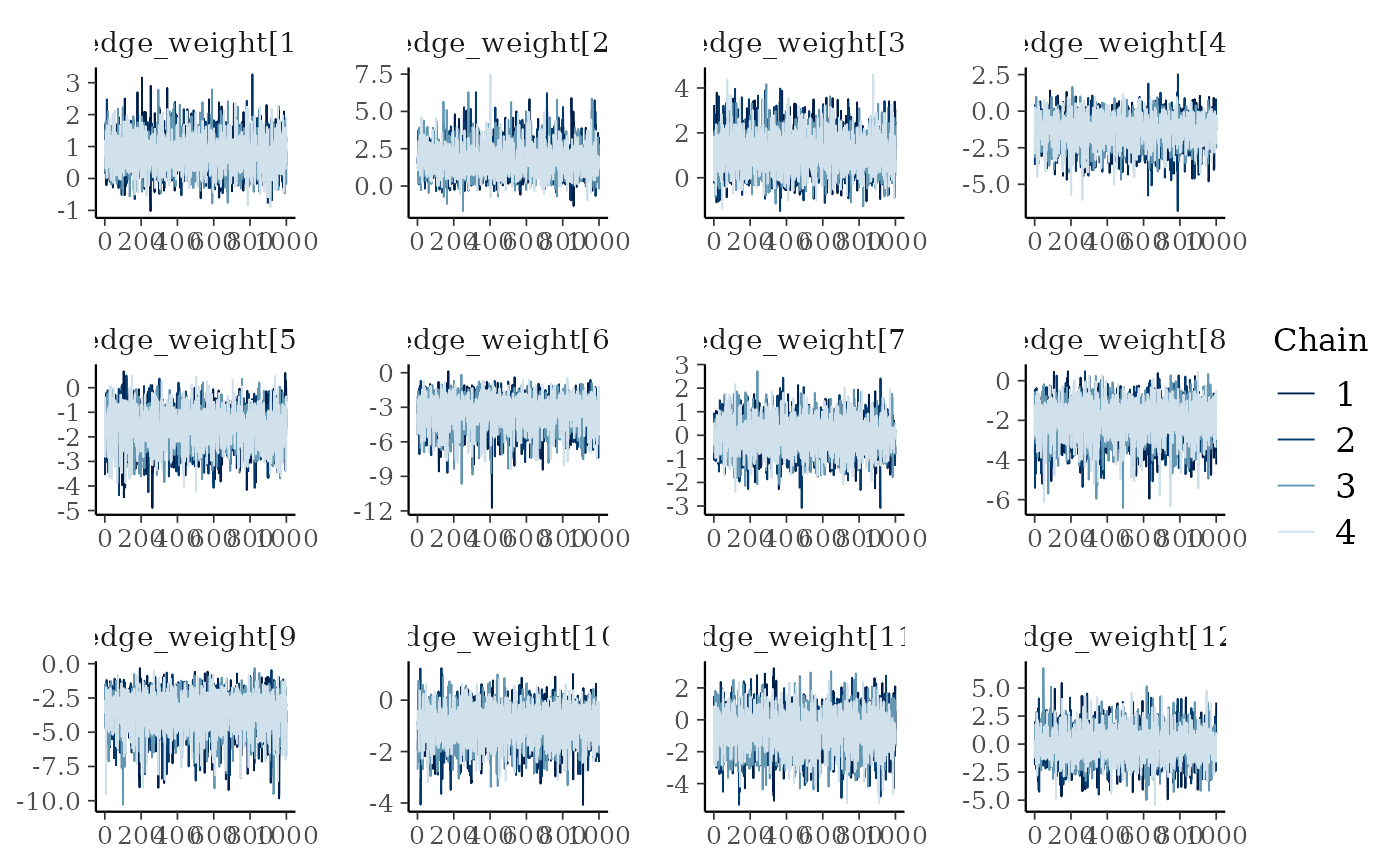
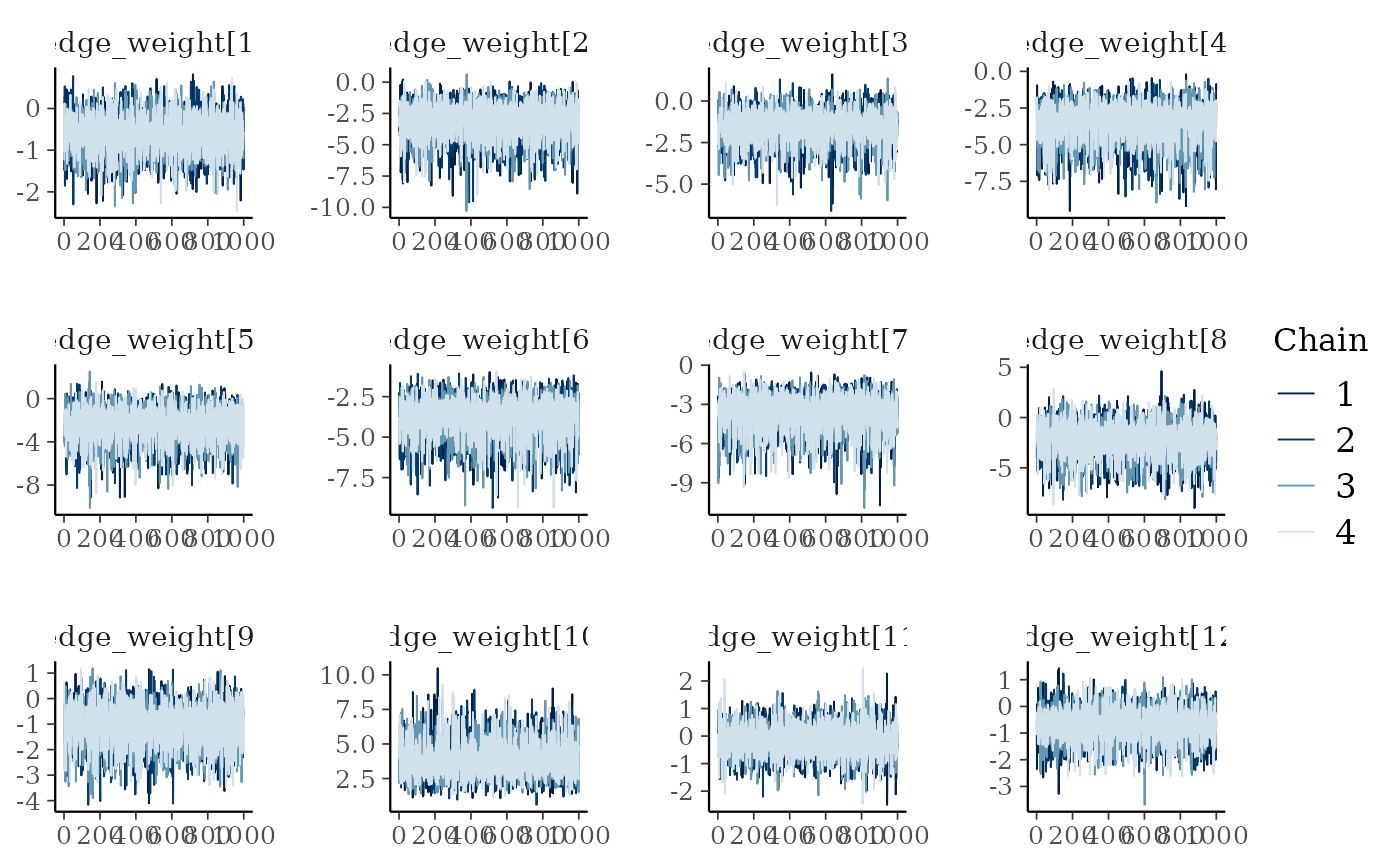
Built site for bisonR: 0.1.0@4b7335e

diff --git a/articles/getting_started.html b/articles/getting_started.html
@@ -113,13 +113,13 @@
 <code class="sourceCode R"><span class="va">sim_data</span> <span class="op">&lt;-</span> <span class="fu"><a href="../reference/simulate_edge_model.html">simulate_edge_model</a></span><span class="op">(</span><span class="st">"binary"</span>, aggregated <span class="op">=</span> <span class="cn">FALSE</span><span class="op">)</span>
 <span class="va">df</span> <span class="op">&lt;-</span> <span class="va">sim_data</span><span class="op">$</span><span class="va">df_sim</span>
 <span class="fu"><a href="https://rdrr.io/r/utils/head.html" class="external-link">head</a></span><span class="op">(</span><span class="va">df</span><span class="op">)</span>
-<span class="co">#&gt;   event node_1_id node_2_id age_diff    age_1    age_2 location duration</span>
-<span class="co">#&gt; 1     0         1         2 1.668992 21.16243 19.49344        2        1</span>
-<span class="co">#&gt; 2     1         1         2 1.668992 21.16243 19.49344        1        1</span>
-<span class="co">#&gt; 3     1         1         2 1.668992 21.16243 19.49344        4        1</span>
-<span class="co">#&gt; 4     0         1         2 1.668992 21.16243 19.49344        1        1</span>
-<span class="co">#&gt; 5     1         1         2 1.668992 21.16243 19.49344        2        1</span>
-<span class="co">#&gt; 6     1         1         2 1.668992 21.16243 19.49344        2        1</span></code></pre></div>
+<span class="co">#&gt;   event node_1_id node_2_id  age_diff    age_1    age_2 location duration</span>
+<span class="co">#&gt; 1     0         1         2 -1.486868 15.53712 17.02398        5        1</span>
+<span class="co">#&gt; 2     0         1         2 -1.486868 15.53712 17.02398        5        1</span>
+<span class="co">#&gt; 3     0         1         2 -1.486868 15.53712 17.02398        2        1</span>
+<span class="co">#&gt; 4     0         1         2 -1.486868 15.53712 17.02398        2        1</span>
+<span class="co">#&gt; 5     1         1         2 -1.486868 15.53712 17.02398        3        1</span>
+<span class="co">#&gt; 6     0         1         2 -1.486868 15.53712 17.02398        1        1</span></code></pre></div>
 </div>
 <div class="section level2">
 <h2 id="edge-models">Edge Models<a class="anchor" aria-label="anchor" href="#edge-models"></a>
@@ -188,14 +188,14 @@
 <span class="co">#&gt; </span>
 <span class="co">#&gt; Running MCMC with 4 parallel chains...</span>
 <span class="co">#&gt; </span>
-<span class="co">#&gt; Chain 3 finished in 1.9 seconds.</span>
-<span class="co">#&gt; Chain 4 finished in 1.8 seconds.</span>
-<span class="co">#&gt; Chain 1 finished in 2.0 seconds.</span>
-<span class="co">#&gt; Chain 2 finished in 1.9 seconds.</span>
+<span class="co">#&gt; Chain 2 finished in 3.1 seconds.</span>
+<span class="co">#&gt; Chain 1 finished in 3.2 seconds.</span>
+<span class="co">#&gt; Chain 3 finished in 3.2 seconds.</span>
+<span class="co">#&gt; Chain 4 finished in 3.2 seconds.</span>
 <span class="co">#&gt; </span>
 <span class="co">#&gt; All 4 chains finished successfully.</span>
-<span class="co">#&gt; Mean chain execution time: 1.9 seconds.</span>
-<span class="co">#&gt; Total execution time: 2.1 seconds.</span></code></pre></div>
+<span class="co">#&gt; Mean chain execution time: 3.2 seconds.</span>
+<span class="co">#&gt; Total execution time: 3.4 seconds.</span></code></pre></div>
 <p>Depending on your dataset this can take anywhere between a few tenths of a second and several hours. In particular if you have a large dataset and no observation-level predictors, it’s probably a good idea to use the aggregated version of the model where all observations per dyad are collapsed to a single row. This will speed up model fitting considerably.</p>
 <p>Once the model has fitted, we need to check that the MCMC algorithm has behaved correctly. Usually if there’s a major problem, the <code><a href="../reference/edge_model.html">edge_model()</a></code> function itself will have triggered warning messages above. But even if everything is silent, it’s still worth checking the traceplots to check the MCMC chains have converged. The chains should be well-mixed and look something like a fuzzy caterpillar. We can check for this using the <code><a href="../reference/plot_trace.html">plot_trace()</a></code> function:</p>
 <div class="sourceCode" id="cb7"><pre class="downlit sourceCode r">
@@ -216,51 +216,51 @@
 <span class="co">#&gt; Directed: FALSE</span>
 <span class="co">#&gt; === Edge list summary ===</span>
 <span class="co">#&gt;          median    5%   95%</span>
-<span class="co">#&gt; 1 &lt;-&gt; 2   0.685 0.485 0.846</span>
-<span class="co">#&gt; 1 &lt;-&gt; 3   0.845 0.573 0.973</span>
-<span class="co">#&gt; 2 &lt;-&gt; 3   0.747 0.457 0.929</span>
-<span class="co">#&gt; 1 &lt;-&gt; 4   0.217 0.040 0.557</span>
-<span class="co">#&gt; 2 &lt;-&gt; 4   0.171 0.049 0.384</span>
-<span class="co">#&gt; 3 &lt;-&gt; 4   0.033 0.002 0.169</span>
-<span class="co">#&gt; 1 &lt;-&gt; 5   0.496 0.235 0.758</span>
-<span class="co">#&gt; 2 &lt;-&gt; 5   0.123 0.023 0.347</span>
-<span class="co">#&gt; 3 &lt;-&gt; 5   0.031 0.002 0.154</span>
-<span class="co">#&gt; 4 &lt;-&gt; 5   0.277 0.101 0.520</span>
-<span class="co">#&gt; 1 &lt;-&gt; 6   0.348 0.060 0.773</span>
-<span class="co">#&gt; 2 &lt;-&gt; 6   0.505 0.095 0.909</span>
-<span class="co">#&gt; 3 &lt;-&gt; 6   0.023 0.002 0.111</span>
-<span class="co">#&gt; 4 &lt;-&gt; 6   0.500 0.201 0.799</span>
-<span class="co">#&gt; 5 &lt;-&gt; 6   0.066 0.012 0.196</span>
-<span class="co">#&gt; 1 &lt;-&gt; 7   0.970 0.839 0.998</span>
-<span class="co">#&gt; 2 &lt;-&gt; 7   0.833 0.672 0.938</span>
-<span class="co">#&gt; 3 &lt;-&gt; 7   0.032 0.002 0.169</span>
-<span class="co">#&gt; 4 &lt;-&gt; 7   0.828 0.226 0.992</span>
-<span class="co">#&gt; 5 &lt;-&gt; 7   0.934 0.637 0.996</span>
-<span class="co">#&gt; 6 &lt;-&gt; 7   0.669 0.352 0.900</span>
-<span class="co">#&gt; 1 &lt;-&gt; 8   0.814 0.510 0.967</span>
-<span class="co">#&gt; 2 &lt;-&gt; 8   0.416 0.206 0.652</span>
-<span class="co">#&gt; 3 &lt;-&gt; 8   0.342 0.060 0.779</span>
-<span class="co">#&gt; 4 &lt;-&gt; 8   0.337 0.146 0.573</span>
-<span class="co">#&gt; 5 &lt;-&gt; 8   0.943 0.687 0.997</span>
-<span class="co">#&gt; 6 &lt;-&gt; 8   0.917 0.544 0.995</span>
-<span class="co">#&gt; 7 &lt;-&gt; 8   0.259 0.075 0.538</span>
-<span class="co">#&gt; 1 &lt;-&gt; 9   0.355 0.178 0.585</span>
-<span class="co">#&gt; 2 &lt;-&gt; 9   0.105 0.005 0.577</span>
-<span class="co">#&gt; 3 &lt;-&gt; 9   0.499 0.257 0.737</span>
-<span class="co">#&gt; 4 &lt;-&gt; 9   0.438 0.251 0.640</span>
-<span class="co">#&gt; 5 &lt;-&gt; 9   0.827 0.233 0.992</span>
-<span class="co">#&gt; 6 &lt;-&gt; 9   0.917 0.756 0.984</span>
-<span class="co">#&gt; 7 &lt;-&gt; 9   0.265 0.127 0.444</span>
-<span class="co">#&gt; 8 &lt;-&gt; 9   0.887 0.396 0.995</span>
-<span class="co">#&gt; 1 &lt;-&gt; 10  0.855 0.665 0.956</span>
-<span class="co">#&gt; 2 &lt;-&gt; 10  0.045 0.003 0.257</span>
-<span class="co">#&gt; 3 &lt;-&gt; 10  0.046 0.003 0.244</span>
-<span class="co">#&gt; 4 &lt;-&gt; 10  0.448 0.284 0.631</span>
-<span class="co">#&gt; 5 &lt;-&gt; 10  0.551 0.299 0.787</span>
-<span class="co">#&gt; 6 &lt;-&gt; 10  0.970 0.858 0.998</span>
-<span class="co">#&gt; 7 &lt;-&gt; 10  0.050 0.003 0.275</span>
-<span class="co">#&gt; 8 &lt;-&gt; 10  0.405 0.121 0.746</span>
-<span class="co">#&gt; 9 &lt;-&gt; 10  0.307 0.133 0.538</span></code></pre></div>
+<span class="co">#&gt; 1 &lt;-&gt; 2   0.348 0.195 0.528</span>
+<span class="co">#&gt; 1 &lt;-&gt; 3   0.044 0.003 0.253</span>
+<span class="co">#&gt; 2 &lt;-&gt; 3   0.180 0.031 0.481</span>
+<span class="co">#&gt; 1 &lt;-&gt; 4   0.031 0.002 0.159</span>
+<span class="co">#&gt; 2 &lt;-&gt; 4   0.082 0.005 0.469</span>
+<span class="co">#&gt; 3 &lt;-&gt; 4   0.022 0.002 0.107</span>
+<span class="co">#&gt; 1 &lt;-&gt; 5   0.027 0.002 0.138</span>
+<span class="co">#&gt; 2 &lt;-&gt; 5   0.110 0.004 0.596</span>
+<span class="co">#&gt; 3 &lt;-&gt; 5   0.255 0.072 0.548</span>
+<span class="co">#&gt; 4 &lt;-&gt; 5   0.978 0.890 0.998</span>
+<span class="co">#&gt; 1 &lt;-&gt; 6   0.465 0.254 0.683</span>
+<span class="co">#&gt; 2 &lt;-&gt; 6   0.334 0.147 0.568</span>
+<span class="co">#&gt; 3 &lt;-&gt; 6   0.917 0.542 0.996</span>
+<span class="co">#&gt; 4 &lt;-&gt; 6   0.970 0.845 0.998</span>
+<span class="co">#&gt; 5 &lt;-&gt; 6   0.922 0.774 0.986</span>
+<span class="co">#&gt; 1 &lt;-&gt; 7   0.021 0.002 0.105</span>
+<span class="co">#&gt; 2 &lt;-&gt; 7   0.022 0.002 0.108</span>
+<span class="co">#&gt; 3 &lt;-&gt; 7   0.185 0.007 0.778</span>
+<span class="co">#&gt; 4 &lt;-&gt; 7   0.972 0.866 0.998</span>
+<span class="co">#&gt; 5 &lt;-&gt; 7   0.045 0.003 0.243</span>
+<span class="co">#&gt; 6 &lt;-&gt; 7   0.020 0.002 0.100</span>
+<span class="co">#&gt; 1 &lt;-&gt; 8   0.060 0.011 0.183</span>
+<span class="co">#&gt; 2 &lt;-&gt; 8   0.885 0.680 0.979</span>
+<span class="co">#&gt; 3 &lt;-&gt; 8   0.979 0.901 0.998</span>
+<span class="co">#&gt; 4 &lt;-&gt; 8   0.942 0.679 0.997</span>
+<span class="co">#&gt; 5 &lt;-&gt; 8   0.697 0.452 0.884</span>
+<span class="co">#&gt; 6 &lt;-&gt; 8   0.647 0.445 0.817</span>
+<span class="co">#&gt; 7 &lt;-&gt; 8   0.978 0.895 0.998</span>
+<span class="co">#&gt; 1 &lt;-&gt; 9   0.497 0.098 0.909</span>
+<span class="co">#&gt; 2 &lt;-&gt; 9   0.924 0.778 0.985</span>
+<span class="co">#&gt; 3 &lt;-&gt; 9   0.961 0.786 0.997</span>
+<span class="co">#&gt; 4 &lt;-&gt; 9   0.973 0.868 0.998</span>
+<span class="co">#&gt; 5 &lt;-&gt; 9   0.956 0.753 0.997</span>
+<span class="co">#&gt; 6 &lt;-&gt; 9   0.223 0.093 0.410</span>
+<span class="co">#&gt; 7 &lt;-&gt; 9   0.976 0.883 0.998</span>
+<span class="co">#&gt; 8 &lt;-&gt; 9   0.976 0.876 0.998</span>
+<span class="co">#&gt; 1 &lt;-&gt; 10  0.052 0.003 0.279</span>
+<span class="co">#&gt; 2 &lt;-&gt; 10  0.083 0.004 0.438</span>
+<span class="co">#&gt; 3 &lt;-&gt; 10  0.507 0.155 0.844</span>
+<span class="co">#&gt; 4 &lt;-&gt; 10  0.976 0.867 0.998</span>
+<span class="co">#&gt; 5 &lt;-&gt; 10  0.250 0.096 0.475</span>
+<span class="co">#&gt; 6 &lt;-&gt; 10  0.020 0.002 0.106</span>
+<span class="co">#&gt; 7 &lt;-&gt; 10  0.934 0.633 0.996</span>
+<span class="co">#&gt; 8 &lt;-&gt; 10  0.020 0.002 0.102</span>
+<span class="co">#&gt; 9 &lt;-&gt; 10  0.025 0.002 0.137</span></code></pre></div>
 <p>It can be hard to get an intuitive idea for what’s going on looking only at a summary table, so this is where it can be useful to visualise the network too. The <code><a href="../reference/plot_network.html">plot_network()</a></code> function does this for BISoN edge weight models, where uncertainty is shown on edge weights. Uncertainty is visualised by showing the lower and upper bounds as overlapping edges in the network.</p>
 <div class="sourceCode" id="cb10"><pre class="downlit sourceCode r">
 <code class="sourceCode R"><span class="fu"><a href="../reference/plot_network.html">plot_network</a></span><span class="op">(</span><span class="va">fit_edge</span>, lwd<span class="op">=</span><span class="fl">5</span><span class="op">)</span></code></pre></div>
@@ -305,30 +305,30 @@
 <span class="co">#&gt; Chain 2 Iteration:  500 / 2000 [ 25%]  (Warmup) </span>
 <span class="co">#&gt; Chain 3 Iteration:  500 / 2000 [ 25%]  (Warmup) </span>
 <span class="co">#&gt; Chain 4 Iteration:  500 / 2000 [ 25%]  (Warmup) </span>
+<span class="co">#&gt; Chain 4 Iteration: 1000 / 2000 [ 50%]  (Warmup) </span>
 <span class="co">#&gt; Chain 1 Iteration: 1000 / 2000 [ 50%]  (Warmup) </span>
 <span class="co">#&gt; Chain 1 Iteration: 1001 / 2000 [ 50%]  (Sampling) </span>
 <span class="co">#&gt; Chain 2 Iteration: 1000 / 2000 [ 50%]  (Warmup) </span>
 <span class="co">#&gt; Chain 2 Iteration: 1001 / 2000 [ 50%]  (Sampling) </span>
 <span class="co">#&gt; Chain 3 Iteration: 1000 / 2000 [ 50%]  (Warmup) </span>
 <span class="co">#&gt; Chain 3 Iteration: 1001 / 2000 [ 50%]  (Sampling) </span>
-<span class="co">#&gt; Chain 4 Iteration: 1000 / 2000 [ 50%]  (Warmup) </span>
 <span class="co">#&gt; Chain 4 Iteration: 1001 / 2000 [ 50%]  (Sampling) </span>
-<span class="co">#&gt; Chain 1 Iteration: 1500 / 2000 [ 75%]  (Sampling) </span>
 <span class="co">#&gt; Chain 2 Iteration: 1500 / 2000 [ 75%]  (Sampling) </span>
 <span class="co">#&gt; Chain 4 Iteration: 1500 / 2000 [ 75%]  (Sampling) </span>
+<span class="co">#&gt; Chain 1 Iteration: 1500 / 2000 [ 75%]  (Sampling) </span>
 <span class="co">#&gt; Chain 3 Iteration: 1500 / 2000 [ 75%]  (Sampling) </span>
-<span class="co">#&gt; Chain 1 Iteration: 2000 / 2000 [100%]  (Sampling) </span>
 <span class="co">#&gt; Chain 2 Iteration: 2000 / 2000 [100%]  (Sampling) </span>
-<span class="co">#&gt; Chain 1 finished in 2.6 seconds.</span>
-<span class="co">#&gt; Chain 2 finished in 2.7 seconds.</span>
-<span class="co">#&gt; Chain 4 Iteration: 2000 / 2000 [100%]  (Sampling) </span>
-<span class="co">#&gt; Chain 4 finished in 2.8 seconds.</span>
+<span class="co">#&gt; Chain 2 finished in 3.3 seconds.</span>
+<span class="co">#&gt; Chain 1 Iteration: 2000 / 2000 [100%]  (Sampling) </span>
 <span class="co">#&gt; Chain 3 Iteration: 2000 / 2000 [100%]  (Sampling) </span>
-<span class="co">#&gt; Chain 3 finished in 3.0 seconds.</span>
+<span class="co">#&gt; Chain 4 Iteration: 2000 / 2000 [100%]  (Sampling) </span>
+<span class="co">#&gt; Chain 1 finished in 3.5 seconds.</span>
+<span class="co">#&gt; Chain 3 finished in 3.4 seconds.</span>
+<span class="co">#&gt; Chain 4 finished in 3.4 seconds.</span>
 <span class="co">#&gt; </span>
 <span class="co">#&gt; All 4 chains finished successfully.</span>
-<span class="co">#&gt; Mean chain execution time: 2.7 seconds.</span>
-<span class="co">#&gt; Total execution time: 3.0 seconds.</span></code></pre></div>
+<span class="co">#&gt; Mean chain execution time: 3.4 seconds.</span>
+<span class="co">#&gt; Total execution time: 3.5 seconds.</span></code></pre></div>
 <p>Like last time we want to check that our model has fit properly and makes good predictions. This can be done in exactly the same way as last time:</p>
 <div class="sourceCode" id="cb13"><pre class="downlit sourceCode r">
 <code class="sourceCode R"><span class="fu"><a href="../reference/plot_trace.html">plot_trace</a></span><span class="op">(</span><span class="va">fit_dyadic</span><span class="op">)</span></code></pre></div>
@@ -343,9 +343,9 @@
 <span class="co">#&gt; Formula: dyad(node_1_id, node_2_id) ~ age_diff</span>
 <span class="co">#&gt; Number of dyads: 45</span>
 <span class="co">#&gt; === Coefficient summary ===                </span>
-<span class="co">#&gt; variable           50%     5%   95%</span>
-<span class="co">#&gt;   intercept      0.154 -0.188 0.487</span>
-<span class="co">#&gt;   fixed_age_diff 0.697  0.525 0.885</span></code></pre></div>
+<span class="co">#&gt; variable            50%     5%   95%</span>
+<span class="co">#&gt;   intercept      -0.089 -0.488 0.290</span>
+<span class="co">#&gt;   fixed_age_diff  0.309  0.258 0.362</span></code></pre></div>
 <p>Now we’ve seen how to fit a dyadic regression, the next common type of analysis is nodal regression.</p>
 </div>
 <div class="section level2">
@@ -361,16 +361,16 @@
   <span class="fu"><a href="https://dplyr.tidyverse.org/reference/distinct.html" class="external-link">distinct</a></span><span class="op">(</span><span class="va">node_id</span>, <span class="va">age</span><span class="op">)</span>
 <span class="va">df_nodal</span>
 <span class="co">#&gt;    node_id      age</span>
-<span class="co">#&gt; 1        1 21.16243</span>
-<span class="co">#&gt; 2        2 19.49344</span>
-<span class="co">#&gt; 3        3 18.48763</span>
-<span class="co">#&gt; 4        4 21.73218</span>
-<span class="co">#&gt; 5        5 22.42261</span>
-<span class="co">#&gt; 6        6 23.14909</span>
-<span class="co">#&gt; 7        7 19.53366</span>
-<span class="co">#&gt; 8        8 20.78087</span>
-<span class="co">#&gt; 9        9 21.24348</span>
-<span class="co">#&gt; 10      10 22.01434</span></code></pre></div>
+<span class="co">#&gt; 1        1 15.53712</span>
+<span class="co">#&gt; 2        2 17.02398</span>
+<span class="co">#&gt; 3        3 20.38407</span>
+<span class="co">#&gt; 4        4 33.53709</span>
+<span class="co">#&gt; 5        5 20.05762</span>
+<span class="co">#&gt; 6        6 17.23418</span>
+<span class="co">#&gt; 7        7 27.43934</span>
+<span class="co">#&gt; 8        8 18.03375</span>
+<span class="co">#&gt; 9        9 15.12338</span>
+<span class="co">#&gt; 10      10 21.13687</span></code></pre></div>
 <p>Priors can be set in the exact same way as for the <code><a href="../reference/dyadic_regression.html">dyadic_regression()</a></code> function:</p>
 <div class="sourceCode" id="cb17"><pre class="downlit sourceCode r">
 <code class="sourceCode R"><span class="va">priors</span> <span class="op">&lt;-</span> <span class="fu"><a href="../reference/get_default_priors.html">get_default_priors</a></span><span class="op">(</span><span class="st">"nodal_regression"</span><span class="op">)</span>
@@ -395,12 +395,7 @@
 <span class="co">#&gt; Chain 1 Iteration:    1 / 2000 [  0%]  (Warmup) </span>
 <span class="co">#&gt; Chain 2 Iteration:    1 / 2000 [  0%]  (Warmup) </span>
 <span class="co">#&gt; Chain 3 Iteration:    1 / 2000 [  0%]  (Warmup) </span>
-<span class="co">#&gt; Chain 4 Iteration:    1 / 2000 [  0%]  (Warmup)</span>
-<span class="co">#&gt; Chain 4 Informational Message: The current Metropolis proposal is about to be rejected because of the following issue:</span>
-<span class="co">#&gt; Chain 4 Exception: multi_normal_lpdf: LDLT_Factor of covariance parameter is not positive definite.  last conditional variance is -nan. (in '/tmp/RtmpY0VgdR/model-389a680ed3b2.stan', line 34, column 2 to column 94)</span>
-<span class="co">#&gt; Chain 4 If this warning occurs sporadically, such as for highly constrained variable types like covariance matrices, then the sampler is fine,</span>
-<span class="co">#&gt; Chain 4 but if this warning occurs often then your model may be either severely ill-conditioned or misspecified.</span>
-<span class="co">#&gt; Chain 4</span>
+<span class="co">#&gt; Chain 4 Iteration:    1 / 2000 [  0%]  (Warmup) </span>
 <span class="co">#&gt; Chain 1 Iteration:  500 / 2000 [ 25%]  (Warmup) </span>
 <span class="co">#&gt; Chain 1 Iteration: 1000 / 2000 [ 50%]  (Warmup) </span>
 <span class="co">#&gt; Chain 1 Iteration: 1001 / 2000 [ 50%]  (Sampling) </span>
@@ -418,17 +413,17 @@
 <span class="co">#&gt; Chain 1 Iteration: 2000 / 2000 [100%]  (Sampling) </span>
 <span class="co">#&gt; Chain 2 Iteration: 1500 / 2000 [ 75%]  (Sampling) </span>
 <span class="co">#&gt; Chain 3 Iteration: 1500 / 2000 [ 75%]  (Sampling) </span>
-<span class="co">#&gt; Chain 1 finished in 1.0 seconds.</span>
-<span class="co">#&gt; Chain 2 Iteration: 2000 / 2000 [100%]  (Sampling) </span>
-<span class="co">#&gt; Chain 2 finished in 1.1 seconds.</span>
-<span class="co">#&gt; Chain 3 Iteration: 2000 / 2000 [100%]  (Sampling) </span>
 <span class="co">#&gt; Chain 4 Iteration: 2000 / 2000 [100%]  (Sampling) </span>
-<span class="co">#&gt; Chain 3 finished in 1.2 seconds.</span>
-<span class="co">#&gt; Chain 4 finished in 1.1 seconds.</span>
+<span class="co">#&gt; Chain 1 finished in 0.6 seconds.</span>
+<span class="co">#&gt; Chain 4 finished in 0.6 seconds.</span>
+<span class="co">#&gt; Chain 2 Iteration: 2000 / 2000 [100%]  (Sampling) </span>
+<span class="co">#&gt; Chain 3 Iteration: 2000 / 2000 [100%]  (Sampling) </span>
+<span class="co">#&gt; Chain 2 finished in 0.7 seconds.</span>
+<span class="co">#&gt; Chain 3 finished in 0.6 seconds.</span>
 <span class="co">#&gt; </span>
 <span class="co">#&gt; All 4 chains finished successfully.</span>
-<span class="co">#&gt; Mean chain execution time: 1.1 seconds.</span>
-<span class="co">#&gt; Total execution time: 1.3 seconds.</span></code></pre></div>
+<span class="co">#&gt; Mean chain execution time: 0.6 seconds.</span>
+<span class="co">#&gt; Total execution time: 0.8 seconds.</span></code></pre></div>
 <p>Once the model has been fitted, we need to employ the same diagnostic checks as last time to ensure the model is reliable. This may seem a little tedious, and it won’t always go smoothly, but it’s a vital part of model fitting that is essential for reliable inferences, even in frequentist statistics.</p>
 <div class="sourceCode" id="cb19"><pre class="downlit sourceCode r">
 <code class="sourceCode R"><span class="fu"><a href="../reference/plot_trace.html">plot_trace</a></span><span class="op">(</span><span class="va">fit_nodal</span><span class="op">)</span></code></pre></div>
@@ -444,8 +439,8 @@
 <span class="co">#&gt; Number of nodes: 10</span>
 <span class="co">#&gt; === Coefficient summary ===           </span>
 <span class="co">#&gt; variable       50%     5%   95%</span>
-<span class="co">#&gt;   intercept -0.843 -4.490 2.908</span>
-<span class="co">#&gt;   fixed_age  0.042 -0.138 0.215</span></code></pre></div>
+<span class="co">#&gt;   intercept -0.831 -3.252 1.722</span>
+<span class="co">#&gt;   fixed_age  0.041 -0.079 0.159</span></code></pre></div>
 </div>
 <div class="section level2">
 <h2 id="conclusion">Conclusion<a class="anchor" aria-label="anchor" href="#conclusion"></a>

diff --git a/index.html b/index.html
@@ -79,7 +79,7 @@
 </h1>
 </div>
 <!-- badges: start -->
-<p><span class="emoji" data-emoji="warning">⚠</span> <strong>Do not use this package! (yet): This package is still in very early stages of development and not ready for real use. If you’re looking to use BISoN for social network analysis check out the examples repository in Stan and INLA here: <a href="https://github.com/JHart96/bison_examples" class="external-link">github.com/JHart96/bison_examples</a>. </strong></p>
+<p><span class="emoji" data-emoji="warning">⚠</span> <strong>This package is still in early stages of development and has not yet been fully tested</strong></p>
 <p>bisonR is an R package implementing the BISoN framework for conducting Bayesian analysis of social networks. BISoN estimates uncertainty over edge weights in social networks from empirical data (such as observations) and builds networks with uncertainty. The networks can then be visualised <em>with</em> uncertainty, and can also be analysed with a fully Bayesian methodology using standard tools such as regression.</p>
 <div class="section level2">
 <h2 id="installation">Installation<a class="anchor" aria-label="anchor" href="#installation"></a>

diff --git a/news/index.html b/news/index.html
@@ -51,9 +51,18 @@
     </div>
 
     <div class="section level2">
+<h2 class="pkg-version" data-toc-text="0.1.0" id="bisonr-010">bisonR 0.1.0<a class="anchor" aria-label="anchor" href="#bisonr-010"></a></h2>
+<ul><li>Basic feature set implemented (edge models, dyadic and nodal regression, basic checks, etc).</li>
+<li>All functions are documented.</li>
+<li>Unit tests configured.</li>
+<li>R CMD check passing.</li>
+<li>Getting started page complete.</li>
+</ul></div>
+    <div class="section level2">
 <h2 class="pkg-version" data-toc-text="0.0.0.9000" id="bisonr-0009000">bisonR 0.0.0.9000<a class="anchor" aria-label="anchor" href="#bisonr-0009000"></a></h2>
 <ul><li>Initialised package.</li></ul></div>
-  </main></div>
+  </main><aside class="col-md-3"><nav id="toc"><h2>On this page</h2>
+    </nav></aside></div>
 
 
     <footer><div class="pkgdown-footer-left">
